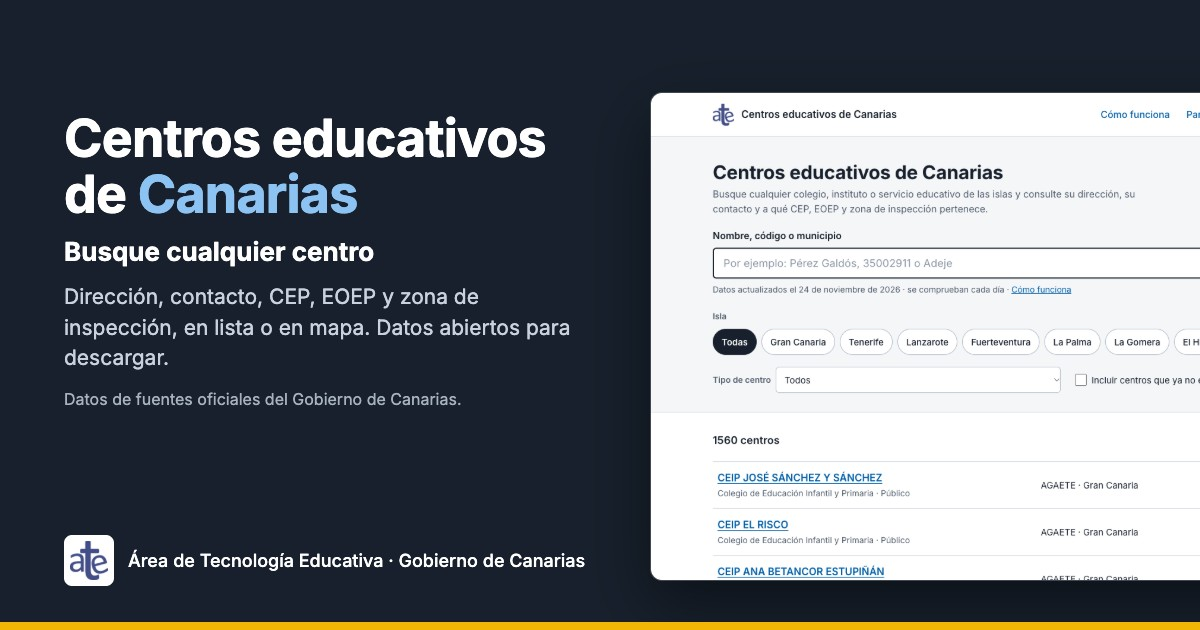
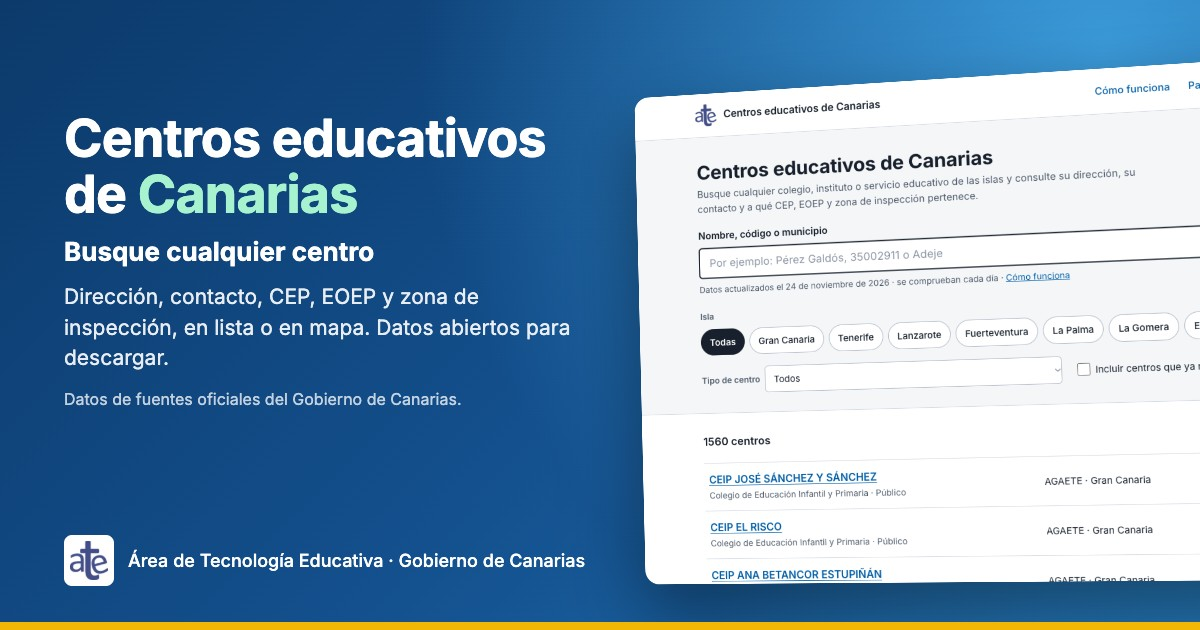
Use a blue gradient Open Graph card, one tone per sister site

diff --git a/docs/index.html b/docs/index.html
@@ -10,7 +10,7 @@
   <meta property="og:url" content="https://ateeducacion.github.io/listado-centros-educativos-canarias/">
   <meta property="og:title" content="Centros educativos de Canarias">
   <meta property="og:description" content="Busque cualquier colegio, instituto o servicio educativo de Canarias y consulte su dirección, su contacto y a qué CEP, EOEP y zona de inspección pertenece.">
-  <meta property="og:image" content="https://ateeducacion.github.io/listado-centros-educativos-canarias/assets/img/og-image.jpg?v=2">
+  <meta property="og:image" content="https://ateeducacion.github.io/listado-centros-educativos-canarias/assets/img/og-image.jpg?v=3">
   <meta property="og:image:type" content="image/jpeg">
   <meta property="og:image:width" content="1200">
   <meta property="og:image:height" content="630">
@@ -18,7 +18,7 @@
   <meta name="twitter:card" content="summary_large_image">
   <meta name="twitter:title" content="Centros educativos de Canarias">
   <meta name="twitter:description" content="Busque cualquier colegio, instituto o servicio educativo de Canarias y consulte su dirección, su contacto y a qué CEP, EOEP y zona de inspección pertenece.">
-  <meta name="twitter:image" content="https://ateeducacion.github.io/listado-centros-educativos-canarias/assets/img/og-image.jpg?v=2">
+  <meta name="twitter:image" content="https://ateeducacion.github.io/listado-centros-educativos-canarias/assets/img/og-image.jpg?v=3">
   <meta name="twitter:image:alt" content="Listado de centros educativos de Canarias. Tarjeta del ATE con una captura del portal.">
   <link rel="preconnect" href="https://fonts.googleapis.com">
   <link rel="preconnect" href="https://fonts.gstatic.com" crossorigin>

diff --git a/docs/desarrolladores/index.html b/docs/desarrolladores/index.html
@@ -10,7 +10,7 @@
   <meta property="og:url" content="https://ateeducacion.github.io/listado-centros-educativos-canarias/desarrolladores/">
   <meta property="og:title" content="Centros educativos de Canarias">
   <meta property="og:description" content="Archivos abiertos del listado de centros educativos de Canarias: formatos, manifiesto, campos y ejemplos de código.">
-  <meta property="og:image" content="https://ateeducacion.github.io/listado-centros-educativos-canarias/assets/img/og-image.jpg?v=2">
+  <meta property="og:image" content="https://ateeducacion.github.io/listado-centros-educativos-canarias/assets/img/og-image.jpg?v=3">
   <meta property="og:image:type" content="image/jpeg">
   <meta property="og:image:width" content="1200">
   <meta property="og:image:height" content="630">
@@ -18,7 +18,7 @@
   <meta name="twitter:card" content="summary_large_image">
   <meta name="twitter:title" content="Centros educativos de Canarias">
   <meta name="twitter:description" content="Archivos abiertos del listado de centros educativos de Canarias: formatos, manifiesto, campos y ejemplos de código.">
-  <meta name="twitter:image" content="https://ateeducacion.github.io/listado-centros-educativos-canarias/assets/img/og-image.jpg?v=2">
+  <meta name="twitter:image" content="https://ateeducacion.github.io/listado-centros-educativos-canarias/assets/img/og-image.jpg?v=3">
   <meta name="twitter:image:alt" content="Listado de centros educativos de Canarias. Tarjeta del ATE con una captura del portal.">
   <link rel="preconnect" href="https://fonts.googleapis.com">
   <link rel="preconnect" href="https://fonts.gstatic.com" crossorigin>

diff --git a/docs/como-funciona/index.html b/docs/como-funciona/index.html
@@ -10,7 +10,7 @@
   <meta property="og:url" content="https://ateeducacion.github.io/listado-centros-educativos-canarias/como-funciona/">
   <meta property="og:title" content="Centros educativos de Canarias">
   <meta property="og:description" content="De dónde salen los datos del listado de centros educativos de Canarias, cómo se actualizan y cómo se corrigen.">
-  <meta property="og:image" content="https://ateeducacion.github.io/listado-centros-educativos-canarias/assets/img/og-image.jpg?v=2">
+  <meta property="og:image" content="https://ateeducacion.github.io/listado-centros-educativos-canarias/assets/img/og-image.jpg?v=3">
   <meta property="og:image:type" content="image/jpeg">
   <meta property="og:image:width" content="1200">
   <meta property="og:image:height" content="630">
@@ -18,7 +18,7 @@
   <meta name="twitter:card" content="summary_large_image">
   <meta name="twitter:title" content="Centros educativos de Canarias">
   <meta name="twitter:description" content="De dónde salen los datos del listado de centros educativos de Canarias, cómo se actualizan y cómo se corrigen.">
-  <meta name="twitter:image" content="https://ateeducacion.github.io/listado-centros-educativos-canarias/assets/img/og-image.jpg?v=2">
+  <meta name="twitter:image" content="https://ateeducacion.github.io/listado-centros-educativos-canarias/assets/img/og-image.jpg?v=3">
   <meta name="twitter:image:alt" content="Listado de centros educativos de Canarias. Tarjeta del ATE con una captura del portal.">
   <link rel="preconnect" href="https://fonts.googleapis.com">
   <link rel="preconnect" href="https://fonts.gstatic.com" crossorigin>
